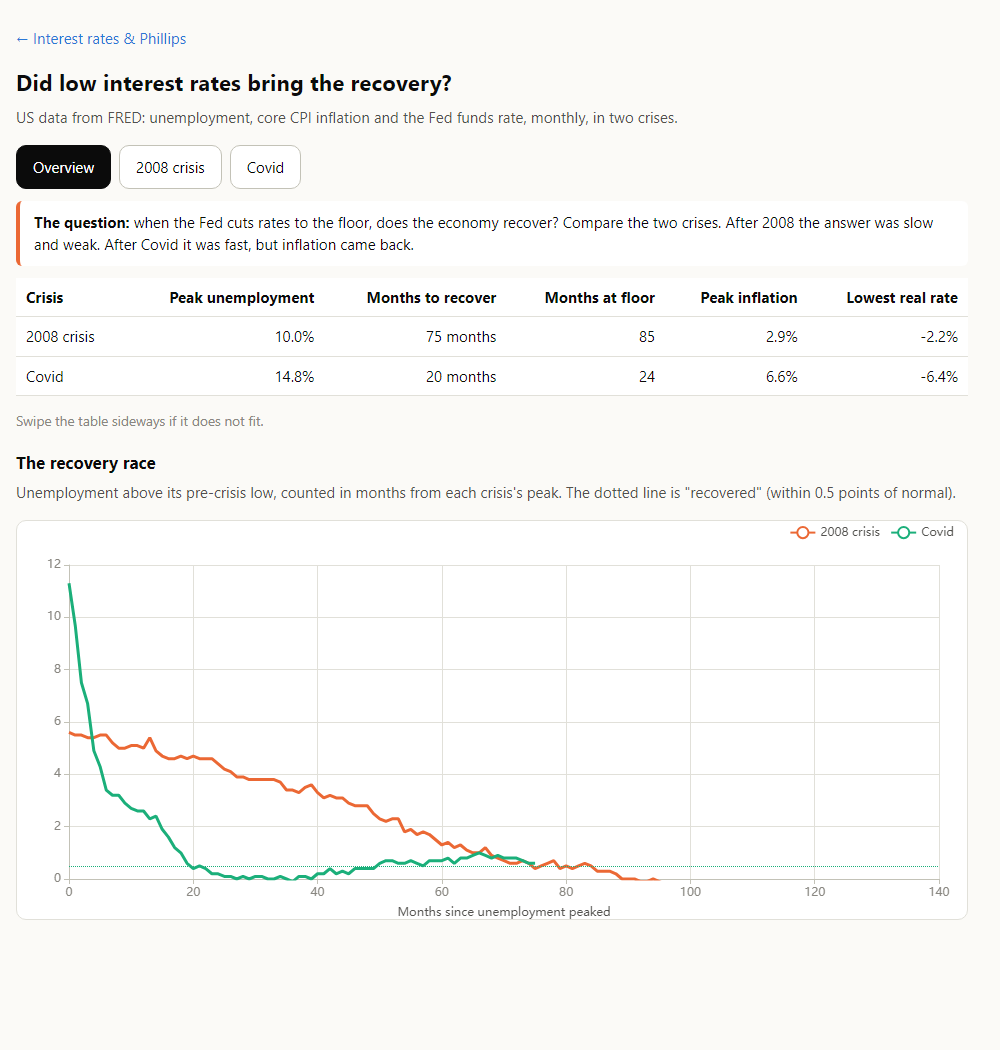
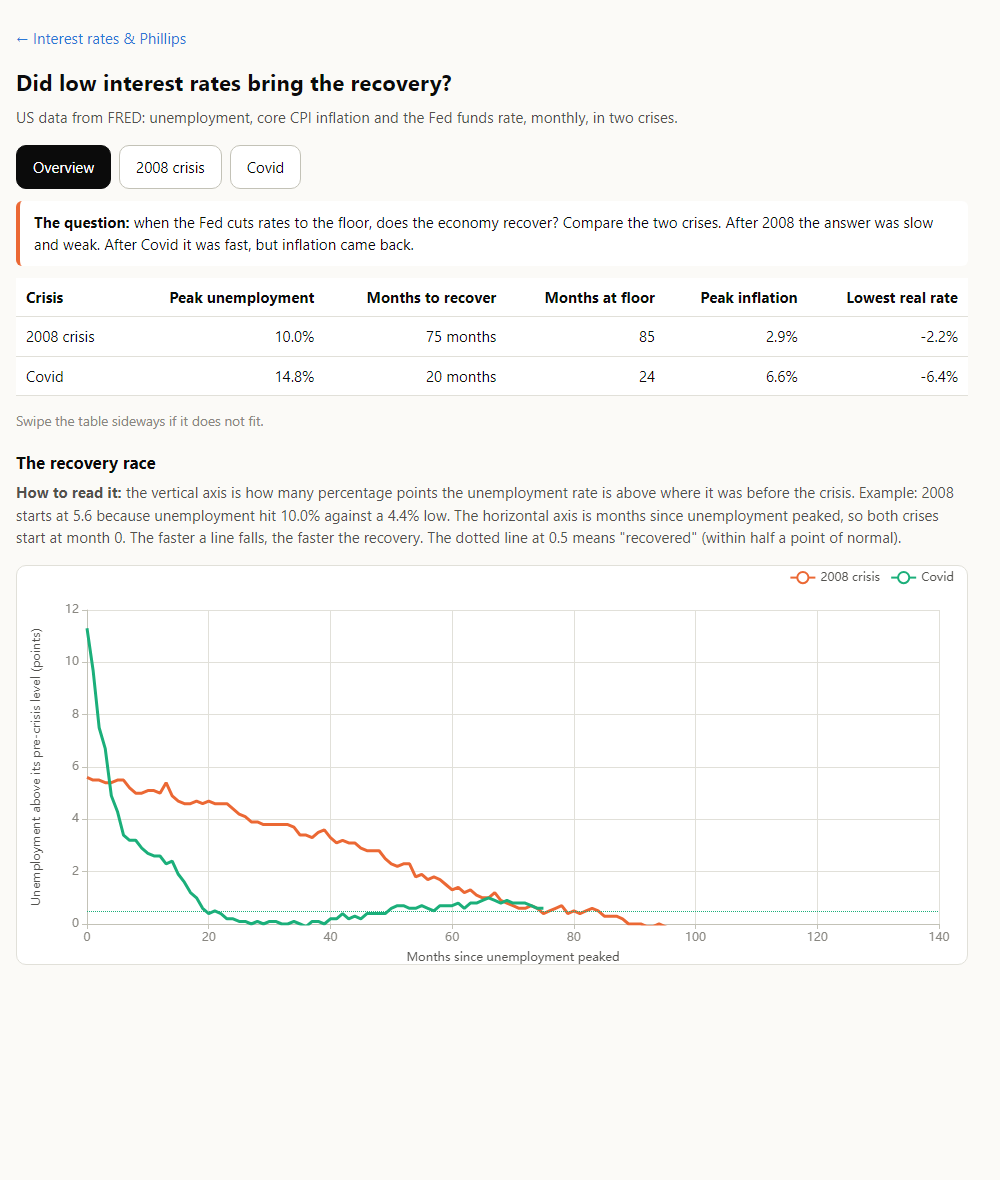
new

diff --git a/Rates_and_Phillips/rates_phillips.html b/Rates_and_Phillips/rates_phillips.html
@@ -84,7 +84,7 @@ After 2008 the answer was slow and weak. After Covid it was fast, but inflation 
 <div class="scroll"><table><tr><th>Crisis</th><th>Peak unemployment</th><th>Months to recover</th><th>Months at floor</th><th>Peak inflation</th><th>Lowest real rate</th></tr><tr><td>2008 crisis</td><td>10.0%</td><td>75 months</td><td>85</td><td>2.9%</td><td>-2.2%</td></tr><tr><td>Covid</td><td>14.8%</td><td>20 months</td><td>24</td><td>6.6%</td><td>-6.4%</td></tr></table></div>
 <p class="note">Swipe the table sideways if it does not fit.</p>
 <h2>The recovery race</h2>
-<p class="why">Unemployment above its pre-crisis low, counted in months from each crisis's peak. The dotted line is "recovered" (within 0.5 points of normal).</p>
+<p class="why"><b>How to read it:</b> the vertical axis is how many percentage points the unemployment rate is above where it was before the crisis. Example: 2008 starts at 5.6 because unemployment hit 10.0% against a 4.4% low. The horizontal axis is months since unemployment peaked, so both crises start at month 0. The faster a line falls, the faster the recovery. The dotted line at 0.5 means "recovered" (within half a point of normal).</p>
 <div class="chart" id="recovery"></div>
 </section><section class="panel" id="gfc" hidden>
 <h2>2008 crisis</h2>
@@ -167,7 +167,9 @@ function phillips(ep, narrow) {                                 // unemployment 
 function recovery(narrow) {                                     // the two crises overlaid, counted from the unemployment peak
   const o = base(narrow);
   o.xAxis = ax({type: "value", name: "Months since unemployment peaked", nameLocation: "middle", nameGap: 28});
-  o.yAxis = ax({type: "value", min: 0});                      // no axis title: the text above the chart says "points above the pre-crisis low"
+  o.grid.left = narrow ? 58 : 70;                                // extra room on the left so the rotated axis title is not cut off
+  o.yAxis = ax({type: "value", min: 0, name: "Unemployment above its pre-crisis level (points)", nameLocation: "middle",
+                nameRotate: 90, nameGap: narrow ? 36 : 44, nameTextStyle: {color: INK_2, fontSize: narrow ? 10 : 12}});
   o.series = DATA.episodes.map(ep => ({name: ep.name, type: "line", showSymbol: false, data: ep.recovery.map((v, i) => [i, v]),
     lineStyle: {color: ep.color, width: 3}, itemStyle: {color: ep.color},
     markLine: {silent: true, symbol: "none", lineStyle: {color: ep.color, type: "dotted"}, label: {show: false}, data: [{yAxis: 0.5}]}}));

diff --git a/Rates_and_Phillips/rates_phillips.py b/Rates_and_Phillips/rates_phillips.py
@@ -275,7 +275,9 @@ function phillips(ep, narrow) {                                 // unemployment 
 function recovery(narrow) {                                     // the two crises overlaid, counted from the unemployment peak
   const o = base(narrow);
   o.xAxis = ax({type: "value", name: "Months since unemployment peaked", nameLocation: "middle", nameGap: 28});
-  o.yAxis = ax({type: "value", min: 0});                      // no axis title: the text above the chart says "points above the pre-crisis low"
+  o.grid.left = narrow ? 58 : 70;                                // extra room on the left so the rotated axis title is not cut off
+  o.yAxis = ax({type: "value", min: 0, name: "Unemployment above its pre-crisis level (points)", nameLocation: "middle",
+                nameRotate: 90, nameGap: narrow ? 36 : 44, nameTextStyle: {color: INK_2, fontSize: narrow ? 10 : 12}});
   o.series = DATA.episodes.map(ep => ({name: ep.name, type: "line", showSymbol: false, data: ep.recovery.map((v, i) => [i, v]),
     lineStyle: {color: ep.color, width: 3}, itemStyle: {color: ep.color},
     markLine: {silent: true, symbol: "none", lineStyle: {color: ep.color, type: "dotted"}, label: {show: false}, data: [{yAxis: 0.5}]}}));
@@ -364,7 +366,7 @@ After 2008 the answer was slow and weak. After Covid it was fast, but inflation 
 <div class="scroll"><table><tr><th>Crisis</th><th>Peak unemployment</th><th>Months to recover</th><th>Months at floor</th><th>Peak inflation</th><th>Lowest real rate</th></tr>{body}</table></div>
 <p class="note">Swipe the table sideways if it does not fit.</p>
 <h2>The recovery race</h2>
-<p class="why">Unemployment above its pre-crisis low, counted in months from each crisis's peak. The dotted line is "recovered" (within 0.5 points of normal).</p>
+<p class="why"><b>How to read it:</b> the vertical axis is how many percentage points the unemployment rate is above where it was before the crisis. Example: 2008 starts at 5.6 because unemployment hit 10.0% against a 4.4% low. The horizontal axis is months since unemployment peaked, so both crises start at month 0. The faster a line falls, the faster the recovery. The dotted line at 0.5 means "recovered" (within half a point of normal).</p>
 <div class="chart" id="recovery"></div>
 </section>"""
 
